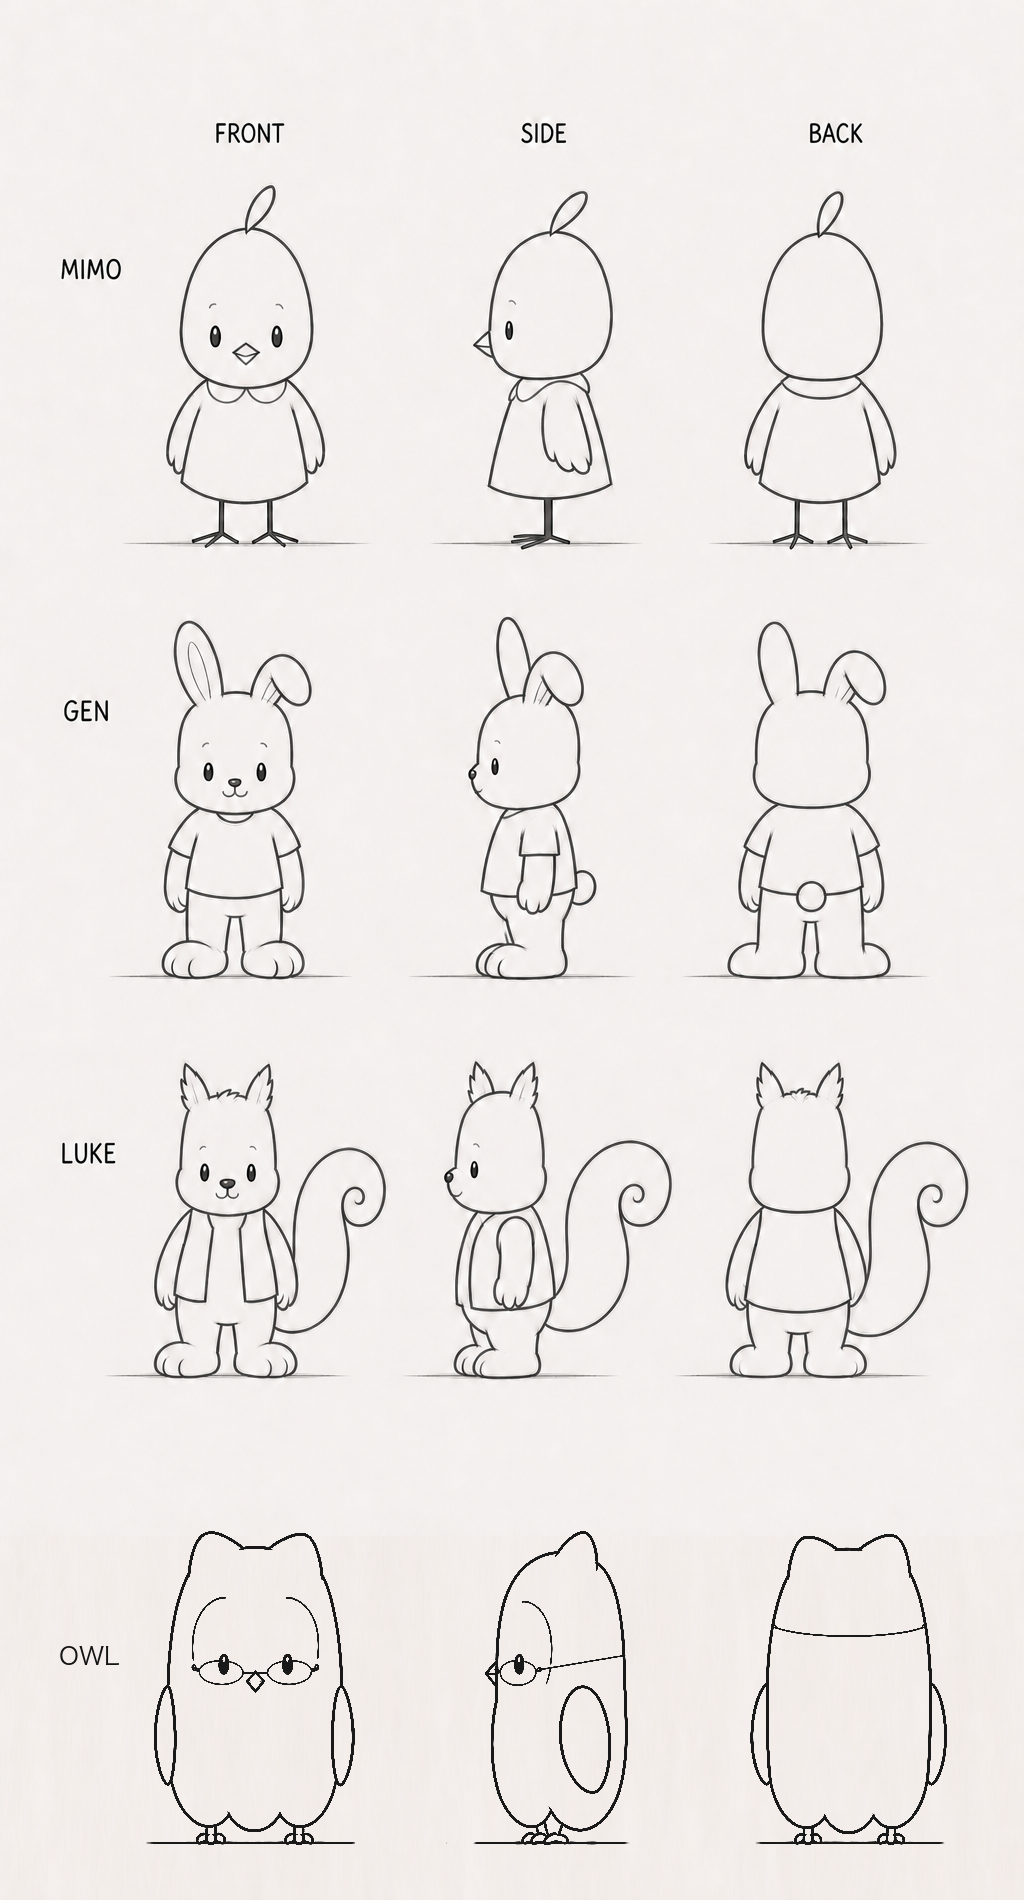
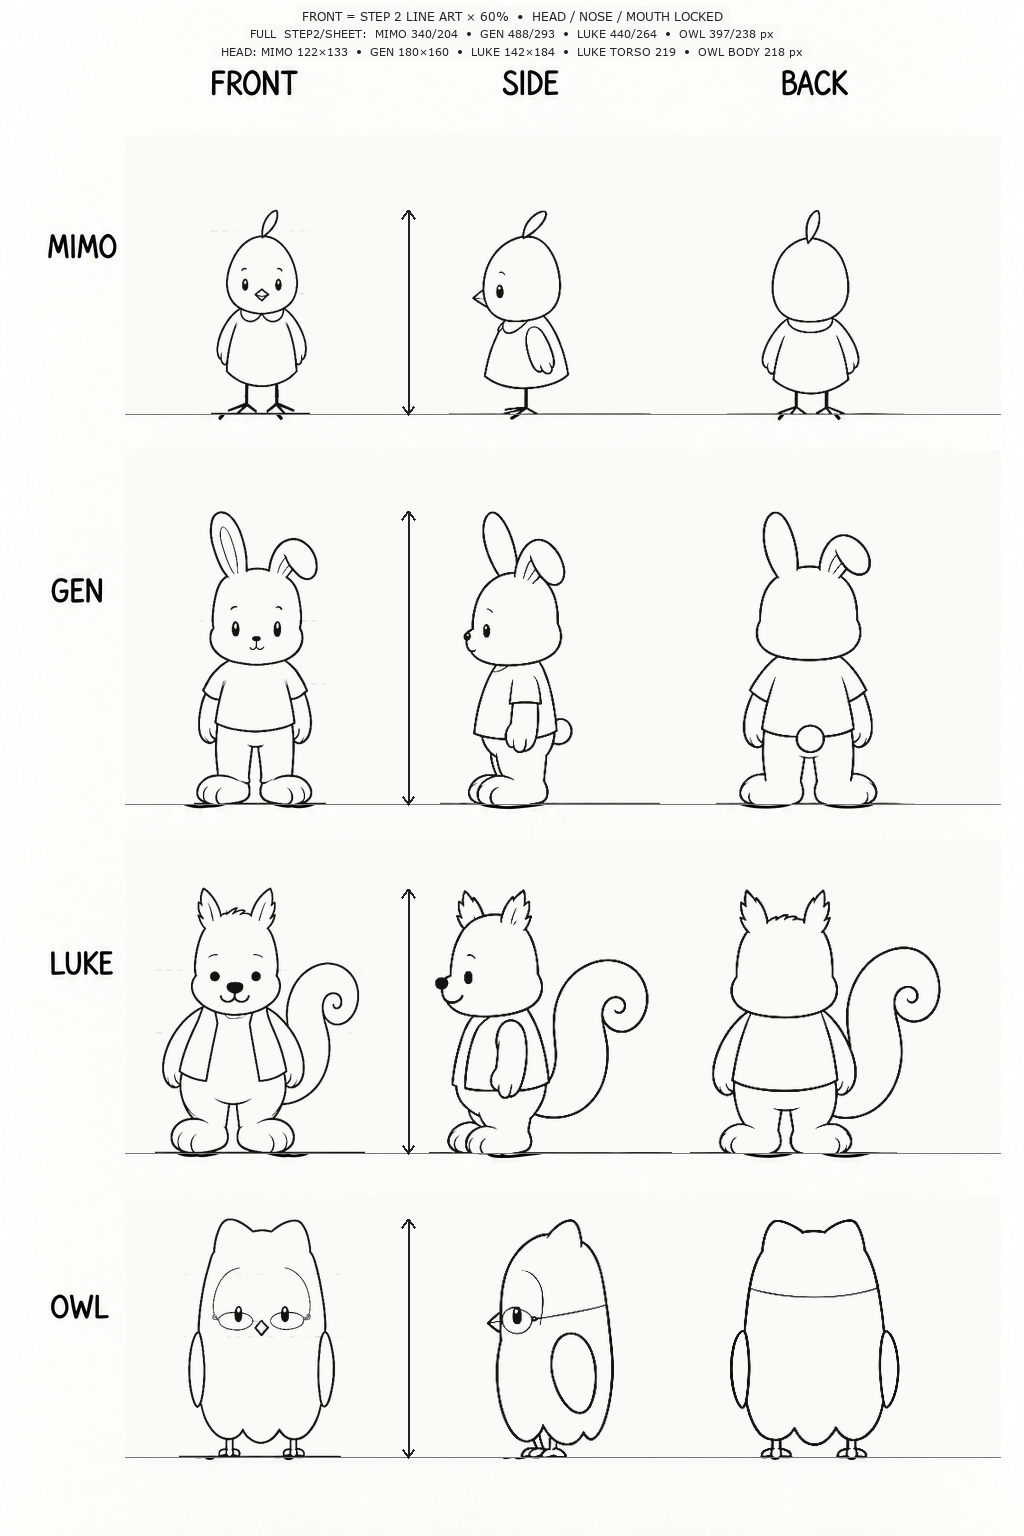
refine character scale and turnarounds

diff --git a/planning/style-studies/output-process.html b/planning/style-studies/output-process.html
@@ -144,11 +144,11 @@
     sections.unshift({key:"feedback-20260812",label:"2026-08-12 たかさんfeedback｜FIX順序を再設計",desc:"頭部・身体・ポーズを同時に直すと、ポーズごとに頭身が変わる。8/12 feedbackでは依存関係を固定し、前段の正本を次段がそのまま受け継いだかをゲートごとに確認する。配色は全工程の後。",bodyGrid:true,items:[
       {type:"note",label:"DEPENDENCY｜5つの意思決定軸",text:"STEP 1 成人性の表現方針 → STEP 2 年齢感・正面頭身・相対身長 → STEP 3 三方向の立体整合 → STEP 4 服・手・線の制約 → STEP 5 表情とポーズの演技。各STEPは直前のFIX画像を唯一の形状参照にする。"},
       {stepLabel:"STEP 1｜成人性の表現方針",title:"成人らしさを、人型化せずどの身体形式で表すか",note:"A＝SMALL MASCOT、B＝柔らかな成人マスコット、C＝人型成人を比較し、Aを採用する。Mimo・Gen・Lukeに加え、フクロウも大きな頭部量感、短い身体、小さな足を持つAへ統合する。成人性は長い脚や服装ではなく、控えめな顔、安定した立ち方、役割に合う反応で表す。",file:"outputs/groups/13-main-three-adult-mascot-policy-abc-comparison-v1.png",status:"A・SMALL MASCOT FIX",statusClass:"current"},
-      {stepLabel:"STEP 2｜年齢感・頭身・相対身長",title:"A案を四人へ適用したとき、正面の頭身と身長差をどうするか",note:"STEP 1のA案だけを身体方針に使い、Mimo・Gen・Luke・フクロウを同じ接地線・同じ1536×1024座標系で正面化した。三人のFIX造形を維持し、フクロウは幅のある頭胴一体型、短い翼、小さな足、本人の近用眼鏡を採用。突出部と身体本体を分けて相対サイズを判断する。",file:"outputs/groups/main-three-owl-step1a-scale-check.png",status:"フクロウ統合・四人要確認",statusClass:"current"},
-      {stepLabel:"STEP 2｜PIXEL MEASUREMENT",title:"同じ1536×1024画像上で、四人の各パーツをどう比較するか",note:"STEP 2の四人正面PNGを同一座標系で再計測した。Mimo・Gen・Lukeは全高、耳・冠羽を除く頭幅・頭高を記録。頭胴が連続するフクロウは、別の頭境界を捏造せず、全高399px、身体外形幅218px、顔盤173×185px、翼長146pxとして記録する。眼鏡は内部記号のため外形寸法へ含めない。縦長チャット背景ではMimo 620pxを基準に、Gen 637px、Luke 619px、フクロウ516pxへ同比率換算し、ポーズを変えても全身を一括拡縮して各パーツ比率を維持する。",file:"outputs/groups/main-three-owl-step1a-pixel-guide.png",status:"フクロウ追加・縦長背景も同比率適用",statusClass:"current"},
+      {stepLabel:"STEP 2｜年齢感・頭身・相対身長",title:"A案を四人へ適用したとき、正面の頭身と身長差をどうするか",note:"STEP 1のA案だけを身体方針に使い、Mimo・Gen・Luke・フクロウを同じ接地線・同じ1536×1024座標系で正面化した。現実の体格差が直感的に伝わるよう、Mimoは一枚羽を含む全身を同比率で縮小し、シルエット全高を約340pxへ変更。フクロウ約397pxより明確に低く、四人の中で最小とした。Lukeも全身を約6%縮小して全高約440pxとし、Gen約488pxとの身長差を明確化。フクロウより少し高い位置を保ちながら、ぽっちゃりした胴体、大きな尻尾、丸い黒目、大きな丸鼻、広い口、細く短い眉は維持した。Genは鼻と口を小さく抑え、フクロウは幅のある頭胴一体型、短い翼、小さな足、本人の近用眼鏡を維持する。",file:"outputs/groups/main-three-owl-step1a-scale-check-v4-luke-brows.png",status:"Mimo最小・Luke約440px・四人の体格差 要確認",statusClass:"current"},
+      {stepLabel:"STEP 2｜PIXEL MEASUREMENT",title:"同じ1536×1024画像上で、四人の各パーツをどう比較するか",note:"最新版のSTEP 2正面PNGを描き直さず、1536×1024の同じ位置・同じピクセルで1:1配置し、その上へ寸法線だけを追加した。したがって計測図内の四人は正面比較図と完全に同じ相対比率で、Genの小さな鼻と口、Lukeの大きな丸鼻と広い口、眉、ぽっちゃりした輪郭もそのまま維持される。寸法文字は体型や尻尾へ重ならない外側の余白へ配置した。Mimoは一枚羽を含む全高340px・頭幅122px・頭高133px、Genは全高488px・頭幅180px・頭高160px、Lukeは全高440px・頭幅142px・頭高184px・胴幅219px。頭胴が連続するフクロウは、全高397px・身体外形幅218px・顔盤173×185px・翼長146pxとして記録する。眼鏡は内部記号のため外形寸法へ含めない。縦長チャット背景でMimoの全高を620pxとする場合は同率換算で、Gen 890px、Luke 802px、フクロウ724px。ポーズを変えても全身を一括拡縮し、各パーツ比率を維持する。",file:"outputs/groups/main-three-owl-step1a-pixel-guide.png",status:"顔造形・体型を1:1維持／寸法文字整理",statusClass:"current"},
       {type:"note",label:"STEP 2 ACCEPTANCE｜正面FIX条件",text:"①三人とも幼児ではなく小さな成人に見える、②同じ地面と縮尺で相対身長を比較できる、③頭部が身体を圧迫しない、④正面シルエットだけで識別できる。承認後、このPNGをSTEP 3の唯一の形状参照にする。"},
-      {stepLabel:"STEP 3｜三方向の立体整合",title:"FIXした正面形を変えず、横・後ろをどう成立させるか",note:"STEP 2で確定したMimo・Gen・Luke・フクロウの正面形を、同じFRONT／SIDE／BACK列へ統合した。フクロウは正面の頭胴一体外形と小さな足を維持し、横では顔盤の前後量・眼鏡の保持線・翼の付け位置、後ろでは浅い頭部境界・左右の翼・三枚羽根の裾を確認できる。三方向とも同率縮小し、正面だけを描き変えていない。",file:"outputs/groups/main-three-owl-small-mascot-turnaround.png",status:"フクロウ三方向反映・要確認",statusClass:"current"},
-      {type:"note",label:"STEP 3 ACCEPTANCE｜三面図FIX条件",text:"正面がSTEP 2と同一／三方向の頭高・肩・腰・接地線が一致／耳・冠羽・尻尾・翼の付け根が説明できる／フクロウの眼鏡は正面と横だけに現れ、後ろでは保持線を増やさない。ここでは衣装装飾を増やさない。"},
+      {stepLabel:"STEP 3｜三方向の立体整合",title:"FIXした正面形を変えず、横・後ろをどう成立させるか",note:"正面列は再生成せず、STEP 2で確定した四人の線画をすべて共通60%で直接配置した。さらにSIDE／BACKも各輪郭の最上点から接地までを測り、縦横比を保った一括拡縮で同じ行のFRONTと全高を一致させた。原寸／三面図内の三方向共通全高はMimo 340／204px、Gen 488／293px、Luke 440／264px、フクロウ397／238px。各行の正面へ全高寸法線を付け、頭部原寸もMimo 122×133px、Gen 180×160px、Luke 142×184px、Luke胴幅219px、フクロウ身体幅218pxとして画像上部へ明記した。これによりGenの横に広い柔らかな四角頭・耳位置・極小の鼻と短い口、Lukeの低い幅広丸頭・毛のある耳・丸い黒目・細い眉・大きな横長鼻・広いW型の口はSTEP 2と同一。SIDE／BACKは、この固定正面から前後量と接続を説明する立体展開とし、耳・羽・尻尾を含む全身を同率で扱う。",file:"outputs/groups/main-three-owl-small-mascot-turnaround.png",status:"正面STEP 2固定・三方向同高・全高寸法表示",statusClass:"current"},
+      {type:"note",label:"STEP 3 ACCEPTANCE｜三面図FIX条件",text:"正面の頭部外形・耳位置・顔パーツがSTEP 2と同一／各行のFRONT・SIDE・BACKは最上点から接地まで同じ全高／Genの柔らかな四角頭・極小の鼻・短い口と、Lukeの低い幅広丸頭・大きな横長鼻・広いW型の口を取り違えない／三方向の肩・腰・接地線が対応できる／耳・冠羽・尻尾・翼の付け根が説明できる／フクロウの眼鏡は正面と横だけに現れ、後ろでは保持線を増やさない。ここでは衣装装飾を増やさない。"},
       {stepLabel:"STEP 4｜服・手・線の制約",title:"FIXした身体へ、8/12 feedbackをどこまで載せるか",note:"STEP 3の四人の頭部とSMALL MASCOT縮尺を維持したまま、Mimo・Genには小さなUと短丈トップ、Lukeには開いたベストを適用した。フクロウには頭胴一体の外形を隠さない閉じたベストを追加し、Uは別形を描かずLukeの会社マークを同じ形・点間隔・線幅・表示サイズで左胸へ適用。翼は指・爪・人型の手へ分解せず一枚の楕円形とする。",file:"outputs/groups/50-main-three-small-mascot-feedback-constraints-turnaround-v2-luke-face-lock.png",status:"フクロウ閉じたベスト・共通U反映",statusClass:"current"},
       {type:"note",label:"STEP 4 ACCEPTANCE｜制約適用条件",text:"服や眼鏡を加えてもSTEP 3の輪郭と接地位置が変わらない／フクロウのベストは三方向で閉じ、正面の中央線と裾位置がつながる／UはLukeと同じく左胸へ小さく配置／手先・翼端に指や爪が戻らない／眼鏡保持線、顔盤、背面境界は外形線より細い。"},
       {stepLabel:"STEP 5｜表情とポーズの演技",title:"三面図を変形せず、役割の動詞をどう読ませるか",note:"既存のMimo＝気づく／聞く／待つ／返す、Gen＝誘う／気づく／合わせる／小さく祝う、Luke＝観察／比較／ひらめく／試すの演技検討をそのまま維持する。三人の造形・ポーズ・配置は変更せず、フクロウは次の追加カードで確認する。",file:"outputs/groups/46-main-three-small-mascot-pose-expression-monochrome-v6-after-heads-current.png",status:"既存三人・変更なし",statusClass:"current"},

diff --git a/planning/style-studies/render_step3_front_lock.py b/planning/style-studies/render_step3_front_lock.py
@@ -1,0 +1,100 @@
+from pathlib import Path
+
+from PIL import Image, ImageDraw, ImageFont
+
+
+HERE = Path(__file__).resolve().parent
+SOURCE = HERE / "outputs/groups/main-three-owl-step1a-scale-check-v4-luke-brows.png"
+TARGET = HERE / "outputs/groups/main-three-owl-small-mascot-turnaround.png"
+FONT = "/System/Library/Fonts/Supplemental/Verdana.ttf"
+SCALE = 0.60
+
+
+def font(size: int) -> ImageFont.FreeTypeFont:
+    return ImageFont.truetype(FONT, size)
+
+
+def ink_layer(image: Image.Image, box: tuple[int, int, int, int], target_height: int | None = None) -> Image.Image:
+    crop = image.crop(box).convert("RGBA")
+    pixels = crop.load()
+    for y in range(crop.height):
+        for x in range(crop.width):
+            r, g, b, _ = pixels[x, y]
+            gray = (r + g + b) // 3
+            # Keep only the dark character strokes. This removes the paper and
+            # pale construction guides while preserving anti-aliased edges.
+            alpha = max(0, min(255, int((150 - gray) * 255 / 110)))
+            pixels[x, y] = (18, 18, 18, alpha)
+    if target_height is None:
+        size = (round(crop.width * SCALE), round(crop.height * SCALE))
+        return crop.resize(size, Image.Resampling.LANCZOS)
+
+    alpha_box = crop.getchannel("A").getbbox()
+    if alpha_box:
+        crop = crop.crop(alpha_box)
+    target_width = round(crop.width * target_height / crop.height)
+    return crop.resize((target_width, target_height), Image.Resampling.LANCZOS)
+
+
+def v_dimension(draw: ImageDraw.ImageDraw, x: int, top: int, bottom: int) -> None:
+    draw.line((x, top, x, bottom), fill="#222222", width=2)
+    draw.line((x - 6, top + 8, x, top, x + 6, top + 8), fill="#222222", width=2)
+    draw.line((x - 6, bottom - 8, x, bottom, x + 6, bottom - 8), fill="#222222", width=2)
+
+
+source = Image.open(SOURCE).convert("RGB")
+target = Image.open(TARGET).convert("RGBA")
+turnaround_source = target.convert("RGB")
+draw = ImageDraw.Draw(target)
+paper = "#fbfaf7"
+
+# Character-only source crops from the fixed STEP 2 image. The four crops are
+# all placed at one shared 60% scale, so their relative sizes cannot drift.
+specs = [
+    # name, STEP 2 front crop, row top, baseline, STEP 2 full height,
+    # side source crop, back source crop
+    ("MIMO", (150, 500, 315, 844), 135, 414, 340, (430, 140, 690, 414), (700, 140, 930, 414)),
+    ("GEN", (470, 350, 690, 844), 450, 804, 488, (430, 450, 690, 804), (700, 450, 930, 804)),
+    ("LUKE", (790, 395, 1140, 844), 840, 1153, 440, (430, 840, 710, 1153), (700, 840, 1000, 1153)),
+    ("OWL", (1160, 440, 1430, 844), 1195, 1457, 397, (430, 1195, 690, 1457), (700, 1195, 930, 1457)),
+]
+
+for name, crop_box, row_top, baseline, full_height, side_box, back_box in specs:
+    # Clear only the old FRONT drawing; row label, SIDE and BACK remain intact.
+    draw.rectangle((125, row_top, 430, baseline), fill=paper)
+    layer = ink_layer(source, crop_box)
+    x = 260 - layer.width // 2
+    y = baseline - layer.height
+    target.alpha_composite(layer, (x, y))
+
+    # Restore the technical baseline and record both the STEP 2 source height
+    # and its exact 60% height on this turnaround sheet.
+    draw.line((125, baseline, 430, baseline), fill="#777777", width=1)
+    sheet_height = round(full_height * SCALE)
+    v_dimension(draw, 408, baseline - sheet_height, baseline)
+
+    # SIDE and BACK are trimmed and uniformly resized to the exact same full
+    # height as FRONT. Their internal width/depth proportions remain unchanged.
+    for view_box, center_x, clear_left, clear_right in (
+        (side_box, 550, 431, 699),
+        (back_box, 815, 700, 1000),
+    ):
+        view = ink_layer(turnaround_source, view_box, target_height=sheet_height)
+        draw.rectangle((clear_left, row_top, clear_right, baseline), fill=paper)
+        target.alpha_composite(view, (center_x - view.width // 2, baseline - view.height))
+        draw.line((clear_left, baseline, clear_right, baseline), fill="#777777", width=1)
+
+# Explicit lock note prevents the front views being mistaken for redrawn forms.
+notes = [
+    "FRONT = STEP 2 LINE ART × 60%  •  HEAD / NOSE / MOUTH LOCKED",
+    "FULL  STEP2/SHEET:  MIMO 340/204  •  GEN 488/293  •  LUKE 440/264  •  OWL 397/238 px",
+    "HEAD: MIMO 122×133  •  GEN 180×160  •  LUKE 142×184  •  LUKE TORSO 219  •  OWL BODY 218 px",
+]
+for index, note in enumerate(notes):
+    note_font = font(11 if index else 12)
+    box = draw.textbbox((0, 0), note, font=note_font)
+    y = 8 + index * 18
+    draw.rectangle((512 - (box[2] - box[0]) // 2 - 7, y - 2, 512 + (box[2] - box[0]) // 2 + 7, y + 16), fill=paper)
+    draw.text((512 - (box[2] - box[0]) // 2, y), note, fill="#222222", font=note_font)
+
+target.convert("RGB").save(TARGET, quality=95)

diff --git a/planning/style-studies/render_exact_pixel_guide.py b/planning/style-studies/render_exact_pixel_guide.py
@@ -1,0 +1,64 @@
+from pathlib import Path
+
+from PIL import Image, ImageDraw, ImageFont
+
+
+HERE = Path(__file__).resolve().parent
+SOURCE = HERE / "outputs/groups/main-three-owl-step1a-scale-check-v4-luke-brows.png"
+OUTPUT = HERE / "outputs/groups/main-three-owl-step1a-pixel-guide.png"
+FONT = "/System/Library/Fonts/Supplemental/Verdana.ttf"
+
+
+def font(size: int) -> ImageFont.FreeTypeFont:
+    return ImageFont.truetype(FONT, size)
+
+
+def vertical(draw: ImageDraw.ImageDraw, x: int, top: int, bottom: int, label: str, tx: int, ty: int) -> None:
+    draw.line((x, top, x, bottom), fill="#111111", width=2)
+    draw.line((x - 8, top + 10, x, top, x + 8, top + 10), fill="#111111", width=2)
+    draw.line((x - 8, bottom - 10, x, bottom, x + 8, bottom - 10), fill="#111111", width=2)
+    draw.text((tx, ty), label, fill="#111111", font=font(22), spacing=2)
+
+
+def horizontal(draw: ImageDraw.ImageDraw, left: int, right: int, y: int, label: str, tx: int, ty: int) -> None:
+    draw.line((left, y, right, y), fill="#111111", width=2)
+    draw.line((left + 10, y - 8, left, y, left + 10, y + 8), fill="#111111", width=2)
+    draw.line((right - 10, y - 8, right, y, right - 10, y + 8), fill="#111111", width=2)
+    draw.text((tx, ty), label, fill="#111111", font=font(18))
+
+
+image = Image.open(SOURCE).convert("RGB")
+draw = ImageDraw.Draw(image)
+
+# Preserve the STEP 2 character pixels 1:1; only replace the heading and add dimensions.
+draw.rectangle((285, 45, 1260, 135), fill="#faf9f6")
+title = "STEP 2 — PIXEL MEASUREMENT"
+title_box = draw.textbbox((0, 0), title, font=font(42))
+draw.text(((1536 - (title_box[2] - title_box[0])) / 2, 52), title, fill="#111111", font=font(42))
+
+vertical(draw, 118, 503, 844, "", 0, 0)
+vertical(draw, 438, 356, 844, "", 0, 0)
+vertical(draw, 770, 404, 844, "", 0, 0)
+vertical(draw, 1150, 447, 844, "", 0, 0)
+
+# Keep height labels in the open area beneath the names so they cannot change
+# the apparent width of a character or merge visually with Luke's tail.
+draw.text((188, 300), "FULL 340 px", fill="#111111", font=font(20))
+draw.text((535, 270), "FULL 488 px", fill="#111111", font=font(20))
+draw.text((875, 300), "FULL 440 px", fill="#111111", font=font(20))
+draw.text((1245, 300), "FULL 397 px", fill="#111111", font=font(20))
+
+horizontal(draw, 176, 294, 480, "HEAD 122×133 px", 158, 447)
+horizontal(draw, 497, 677, 330, "HEAD 180×160 px", 495, 297)
+horizontal(draw, 855, 997, 378, "HEAD 142×184 px", 842, 345)
+horizontal(draw, 1192, 1410, 422, "BODY W 218 px", 1200, 389)
+
+details = "LUKE TORSO W 219 px • OWL FACE 173×185 px • OWL WING 146 px"
+details_box = draw.textbbox((0, 0), details, font=font(17))
+draw.text(((1536 - (details_box[2] - details_box[0])) / 2, 915), details, fill="#111111", font=font(17))
+
+footer = "SAME 1536 × 1024 COORDINATES • CHARACTERS COPIED 1:1 FROM STEP 2"
+footer_box = draw.textbbox((0, 0), footer, font=font(17))
+draw.text(((1536 - (footer_box[2] - footer_box[0])) / 2, 952), footer, fill="#111111", font=font(17))
+
+image.save(OUTPUT, quality=95)
